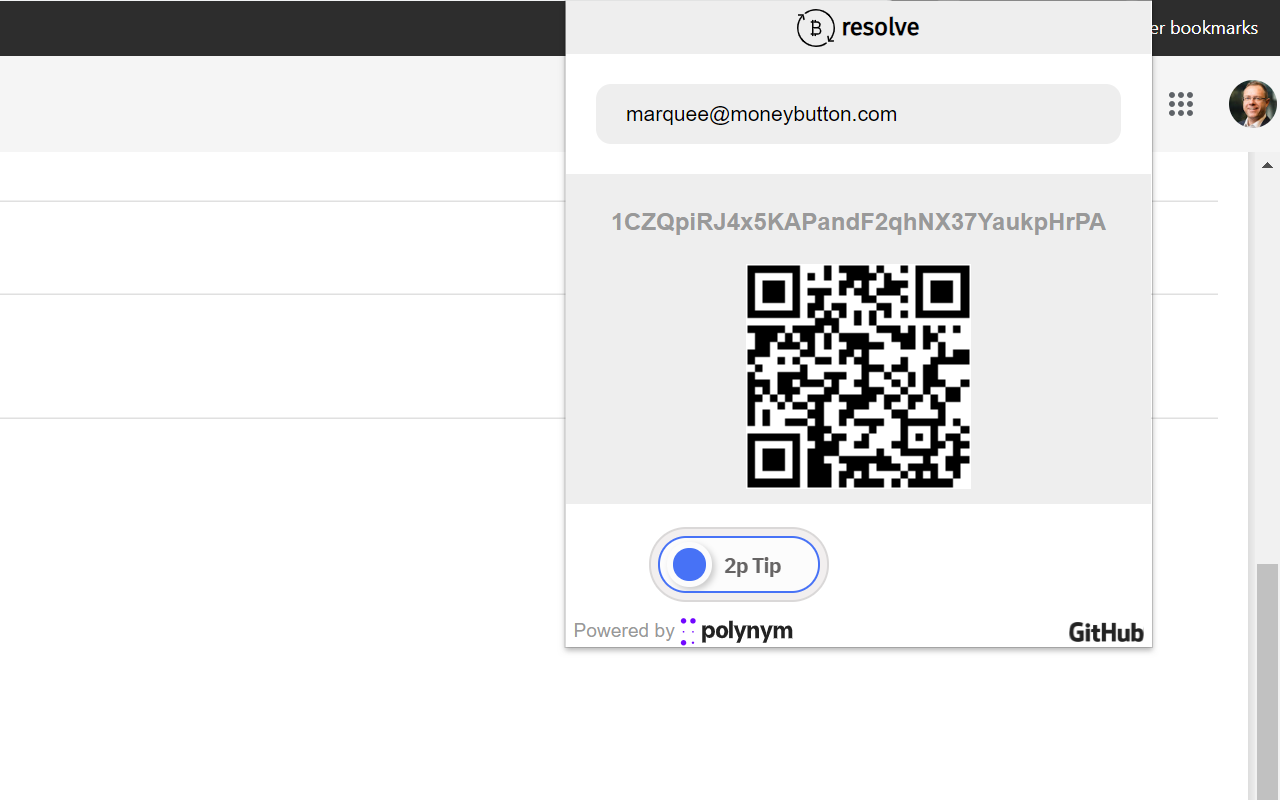
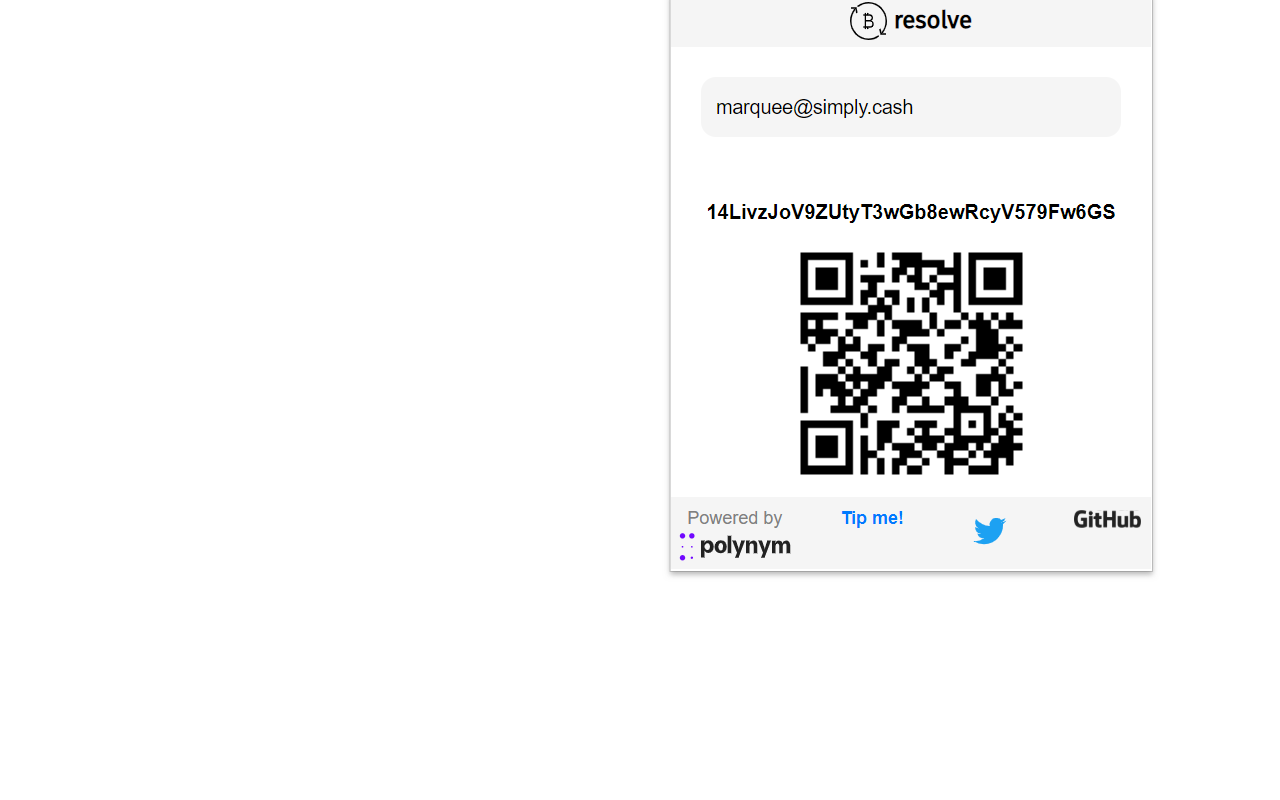
updated shading paymails

diff --git a/src/popup/getaddress.js b/src/popup/getaddress.js
@@ -98,12 +98,13 @@ function clearOutput (){
 
 function checkHandleType () {
     var handle = document.getElementById('handletext').value.trim()
-    var payMailReg = new RegExp(/^[a-zA-Z0-9.!#$%&'*+/=?^_`{|}~-]+@[a-zA-Z0-9](?:[a-zA-Z0-9-]{0,61}[a-zA-Z0-9])?(?:\.[a-zA-Z0-9](?:[a-zA-Z0-9-]{0,61}[a-zA-Z0-9])?)*$/);
     if (handle.charAt(0) == '$')  {
         shadeHandle('Handcash');
     } else if (handle.charAt(0) == '1')  {
         shadeHandle('RelayX');
-    } 
+    } else {
+        shadeHandle('Paymail');
+    }
 }
 
 function shadeHandle (handletype) {
